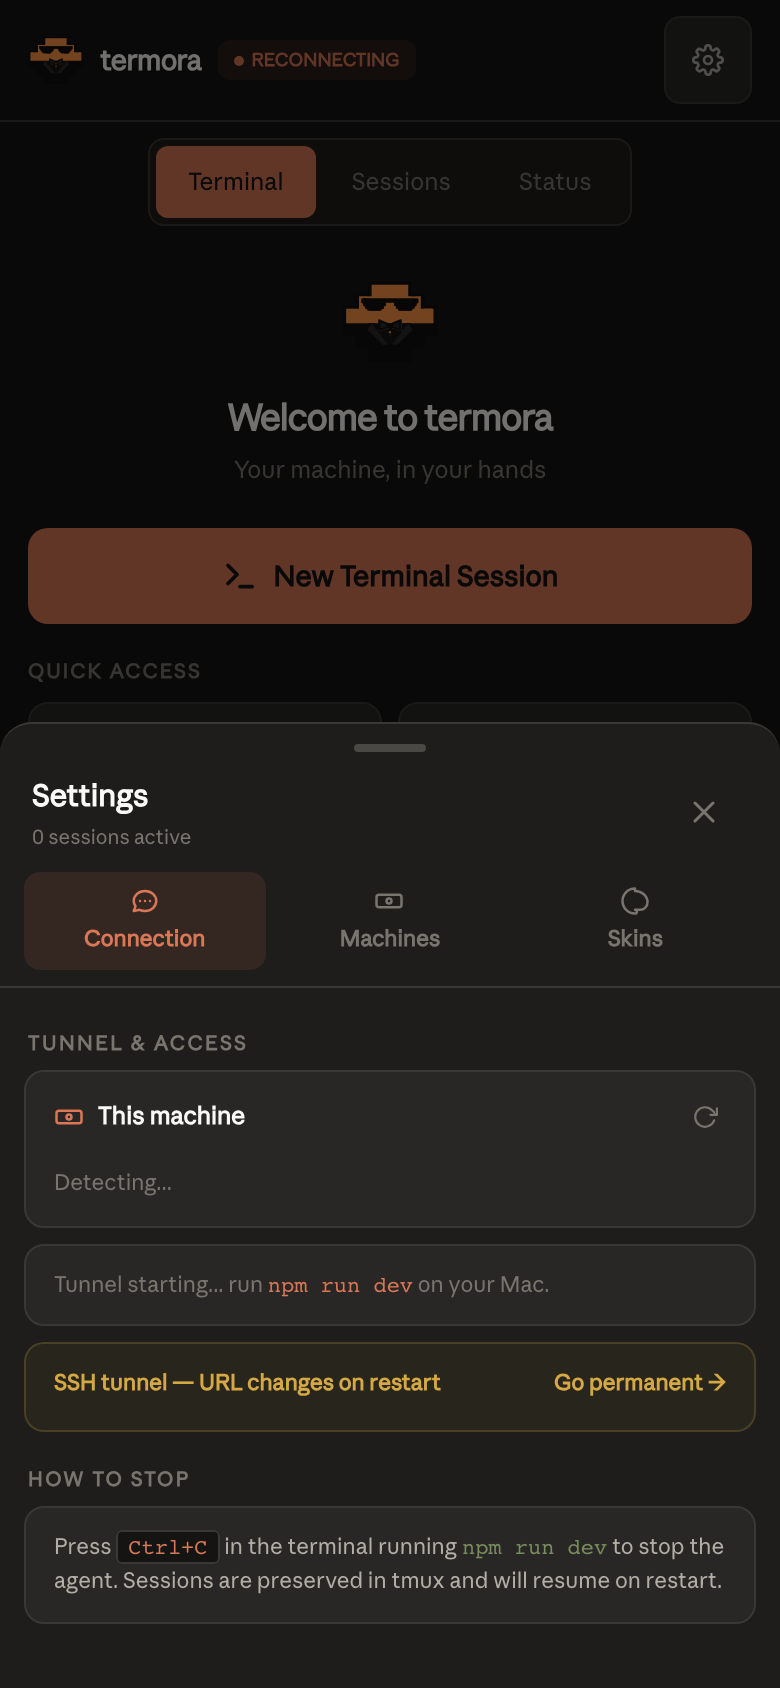
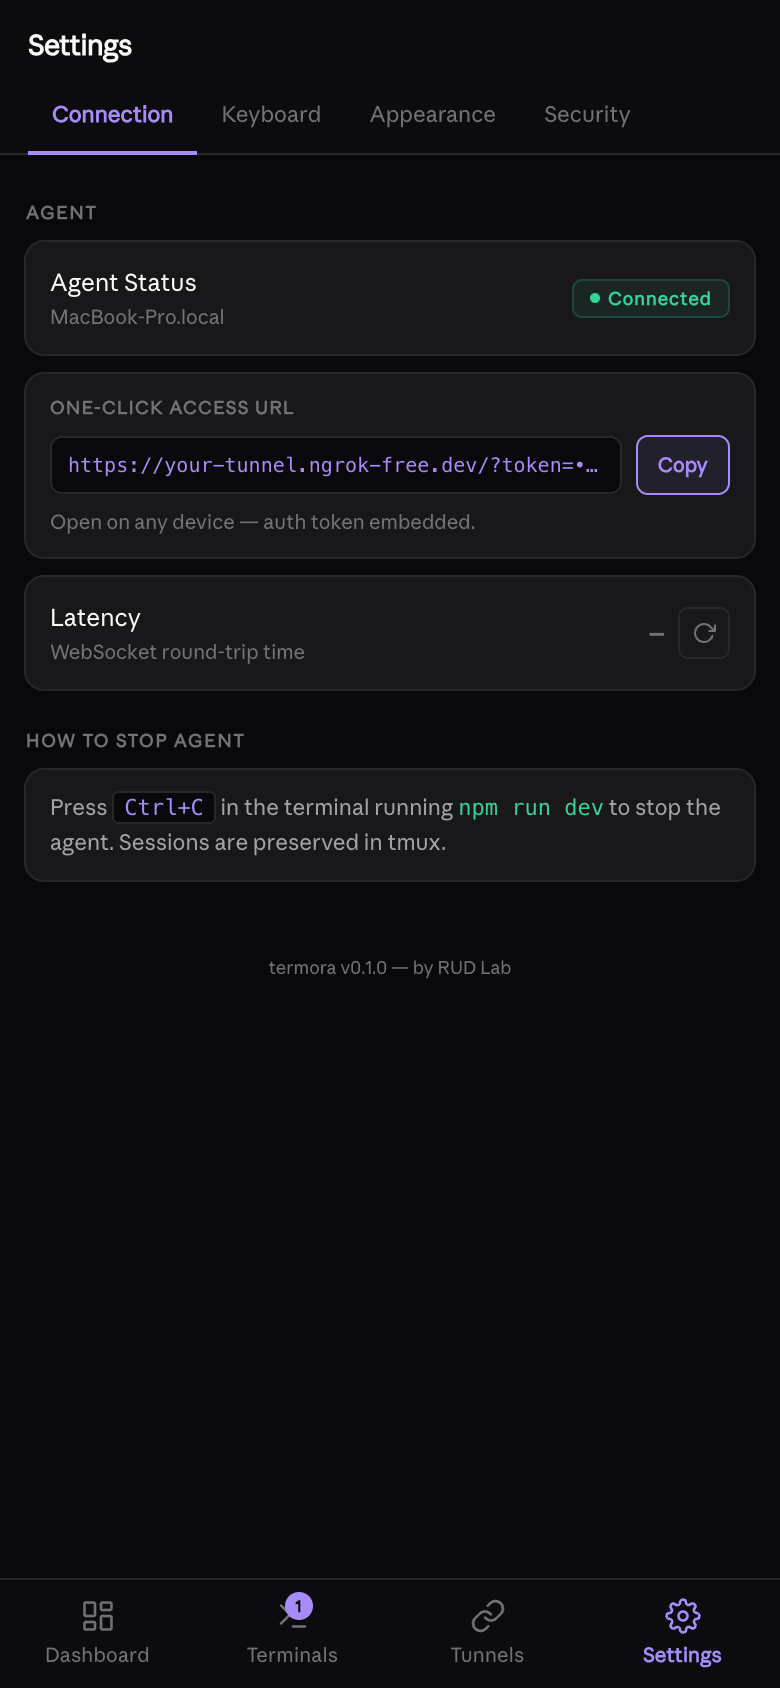
docs: real screenshots, GIF tour, Termux comparison, beginner quickstart
The README's phone gallery was stale mockup images from before the v0.1.0
redesign (bottom tab bar, dashboard, settings tabs) — none of it matched what
npm run dev actually shows. Replaced with real captures of the live app:
dashboard with an active session, an actual terminal running real commands
(git log, the test suite), tunnel status, and settings — all through a real
tunnel, redacted of the real token and hostname before being written to disk.
Added a short animated tour GIF built from the same captures.

Quickstart was three code blocks with no explanation of what Node.js is or
how to check for it — rewritten as a numbered walkthrough that assumes
nothing, since "for noobs" was explicit ask. Added a termora-vs-Termux
section: they get compared constantly and solve different problems (Termux
is a sandboxed Linux environment ON the phone; termora is a window onto the
real machine you already develop on), so a direct comparison table settles it
rather than leaving it implicit.

Badges corrected to match reality: TypeScript 6.0 (not 5.7), 31 tests passing
(not 14), and a live CI status badge instead of a static "hardened" claim.

diff --git a/README.md b/README.md
@@ -4,32 +4,32 @@
 
 <br /><br />
 
-[![TypeScript](https://img.shields.io/badge/TypeScript-5.7-blue?logo=typescript&logoColor=white)](https://typescriptlang.org)
+[![CI](https://github.com/royaluniondesign-sys/termora/actions/workflows/ci.yml/badge.svg)](https://github.com/royaluniondesign-sys/termora/actions/workflows/ci.yml)
+[![TypeScript](https://img.shields.io/badge/TypeScript-6.0-blue?logo=typescript&logoColor=white)](https://typescriptlang.org)
 [![Node.js](https://img.shields.io/badge/Node.js-%3E%3D20-green?logo=node.js&logoColor=white)](https://nodejs.org)
 [![License: MIT](https://img.shields.io/badge/License-MIT-yellow.svg)](LICENSE)
-[![Tests](https://img.shields.io/badge/Tests-14%20passing-brightgreen)]()
-[![Security](https://img.shields.io/badge/Security-Hardened-blue)]()
+[![Tests](https://img.shields.io/badge/Tests-31%20passing-brightgreen)]()
+[![Security](https://img.shields.io/badge/Security-Hardened-blue)](#security)
 [![PRs Welcome](https://img.shields.io/badge/PRs-welcome-brightgreen.svg)](CONTRIBUTING.md)
 
 **Real terminal access from your phone. Not SSH. Not a simulation. A real PTY on your machine, streamed to your pocket.**
 
-[Quickstart](#quickstart) · [How it works](#how-it-works) · [Security](#security) · [Multi-machine](#multi-machine) · [Contributing](CONTRIBUTING.md)
+[Quickstart](#quickstart) · [How it works](#how-it-works) · [vs. Termux](#termora-vs-termux) · [Security](#security) · [Multi-machine](#multi-machine) · [Contributing](CONTRIBUTING.md)
 
 </div>
 
 ---
 
 <div align="center">
+<img src="docs/images/termora-tour.gif" width="260" alt="Live tour: dashboard, a real terminal session, tunnel status, and settings" />
+<br /><sub>Real capture — dashboard, an active session, tunnel status, and settings</sub>
+<br /><br />
 <table>
 <tr>
-<td align="center"><img src="docs/images/phone-terminal.png" width="200" /><br /><sub><b>Terminal & Quick Launch</b></sub></td>
-<td align="center"><img src="docs/images/phone-commands.png" width="200" /><br /><sub><b>Tap-to-Run Commands</b></sub></td>
-<td align="center"><img src="docs/images/phone-grid.png" width="200" /><br /><sub><b>Session Grid</b></sub></td>
-</tr>
-<tr>
-<td align="center"><img src="docs/images/phone-status.png" width="200" /><br /><sub><b>Connection Status</b></sub></td>
-<td align="center"><img src="docs/images/phone-settings.png" width="200" /><br /><sub><b>Connection Panel</b></sub></td>
-<td></td>
+<td align="center"><img src="docs/images/phone-terminal.png" width="190" /><br /><sub><b>Real PTY session</b></sub></td>
+<td align="center"><img src="docs/images/phone-sessions.png" width="190" /><br /><sub><b>Session dashboard</b></sub></td>
+<td align="center"><img src="docs/images/phone-tunnels.png" width="190" /><br /><sub><b>Tunnel status</b></sub></td>
+<td align="center"><img src="docs/images/phone-settings.png" width="190" /><br /><sub><b>Connection panel</b></sub></td>
 </tr>
 </table>
 </div>
@@ -38,7 +38,33 @@
 
 ## Quickstart
 
-> Requires [Node.js 20+](https://nodejs.org) and macOS or Linux.
+New to running things from a terminal? This section assumes nothing —
+follow it top to bottom and you'll have termora on your phone in about
+two minutes.
+
+### 1. Install the one thing you need
+
+termora needs [Node.js](https://nodejs.org) version 20 or newer, on a Mac or
+Linux machine (the machine you want to control from your phone — not the
+phone itself).
+
+Check if you already have it:
+
+```bash
+node --version
+```
+
+If that prints `v20.x.x` or higher, skip to step 2. Otherwise, install
+Node.js from [nodejs.org](https://nodejs.org) (the "LTS" button is the one
+you want), or with a package manager:
+
+```bash
+brew install node          # macOS, via Homebrew
+```
+
+### 2. Get termora and start it
+
+Open a terminal on your Mac/Linux machine and run:
 
 ```bash
 git clone https://github.com/royaluniondesign-sys/termora.git
@@ -47,19 +73,32 @@ npm install
 npm run dev
 ```
 
-A QR code appears in the console. Scan it with your phone. You're in — full terminal, real PTY, no signup required.
+`npm install` downloads termora's dependencies — it can take a minute the
+first time. `npm run dev` then starts the agent.
 
-**Already installed?**
+### 3. Scan the QR code
+
+A QR code appears right there in your terminal. Open your phone's camera
+app, point it at the QR code, and tap the notification that pops up.
+
+That's it — you're looking at a real terminal on your computer, from your
+phone. No account, no signup, no app to install on the phone (it's a normal
+web page).
+
+> **Didn't get a QR code, or it won't scan?** Copy the URL printed below it
+> instead and open it directly in your phone's browser.
+
+### Next time
+
+Once it's cloned, starting it again is just:
 
 ```bash
 cd termora && npm run dev
 ```
 
-**Stop it:**
-
-```bash
-# Press Ctrl+C in the terminal where npm run dev is running
-```
+**To stop it:** press `Ctrl+C` in the terminal where `npm run dev` is
+running. Your shell sessions keep their scrollback (via tmux) and pick up
+right where you left off next time you start it.
 
 ---
 
@@ -179,6 +218,43 @@ termora was built with Claude Code in mind:
 - **Auto-recovery** — tunnel recreates after sleep/wake
 - **One-click auth URL** — token embedded in URL, share with any device
 - **Connection panel** — shows live tunnel mode, copyable auth URL, ngrok setup, stop instructions
+
+---
+
+## termora vs. Termux
+
+They get compared because both put a terminal on your phone. They solve
+different problems.
+
+**[Termux](https://termux.dev)** is a Linux environment that runs *inside*
+Android. It gives you a real shell, a package manager, and Python/Node/etc —
+but it's a sandbox on the phone itself. Your actual project, your actual
+running dev server, your actual `git` history — none of that is there. You'd
+be starting a second, separate environment from scratch, and it's
+Android-only: no iPhone, no iPad, no tablet from another vendor.
+
+**termora** doesn't put a Linux environment on your phone. It puts your
+phone in front of the Linux environment you already have — your Mac, your
+Ubuntu box, your build server, wherever your code and your tools actually
+live. The phone is just the screen and keyboard; the terminal, the shell
+history, the tmux sessions, `claude`/`opencode`/whatever you run — all of it
+is the real thing, running on the real machine, exactly as if you'd walked
+up to it.
+
+| | Termux | termora |
+|---|---|---|
+| **What it is** | A Linux distro running inside Android | A window onto a terminal on your actual computer |
+| **Where your code lives** | Wherever you clone it *inside Termux* — separate from your desktop | Wherever it already is, on the machine you're actually developing on |
+| **Platform** | Android only | Any device with a browser — iPhone, iPad, Android, another laptop |
+| **Setup per project** | Reinstall your toolchain (Node, Python, git config...) inside Termux | None — it's the same machine, same environment, already set up |
+| **Access from outside your Wi-Fi** | Needs your own SSH/VPN setup | Built in — cloudflared/ngrok/SSH tunnel, auto-selected, no config |
+| **UI** | Text-only terminal emulator | Touch-tuned terminal + dashboard, tap-to-run commands, session grid |
+| **Session persistence** | Survives app restarts (it's a local process) | Survives agent *and device* restarts, via tmux control mode |
+| **Keyboard** | Phone keyboard + Termux's key row | Configurable virtual keyboard with modifier stickiness, skins, per-key colors |
+
+If what you want is a Linux box that happens to run on your Android phone,
+Termux is the right tool. If what you want is your laptop or server's actual
+terminal, in your pocket, termora is what that is for.
 
 ---
 
